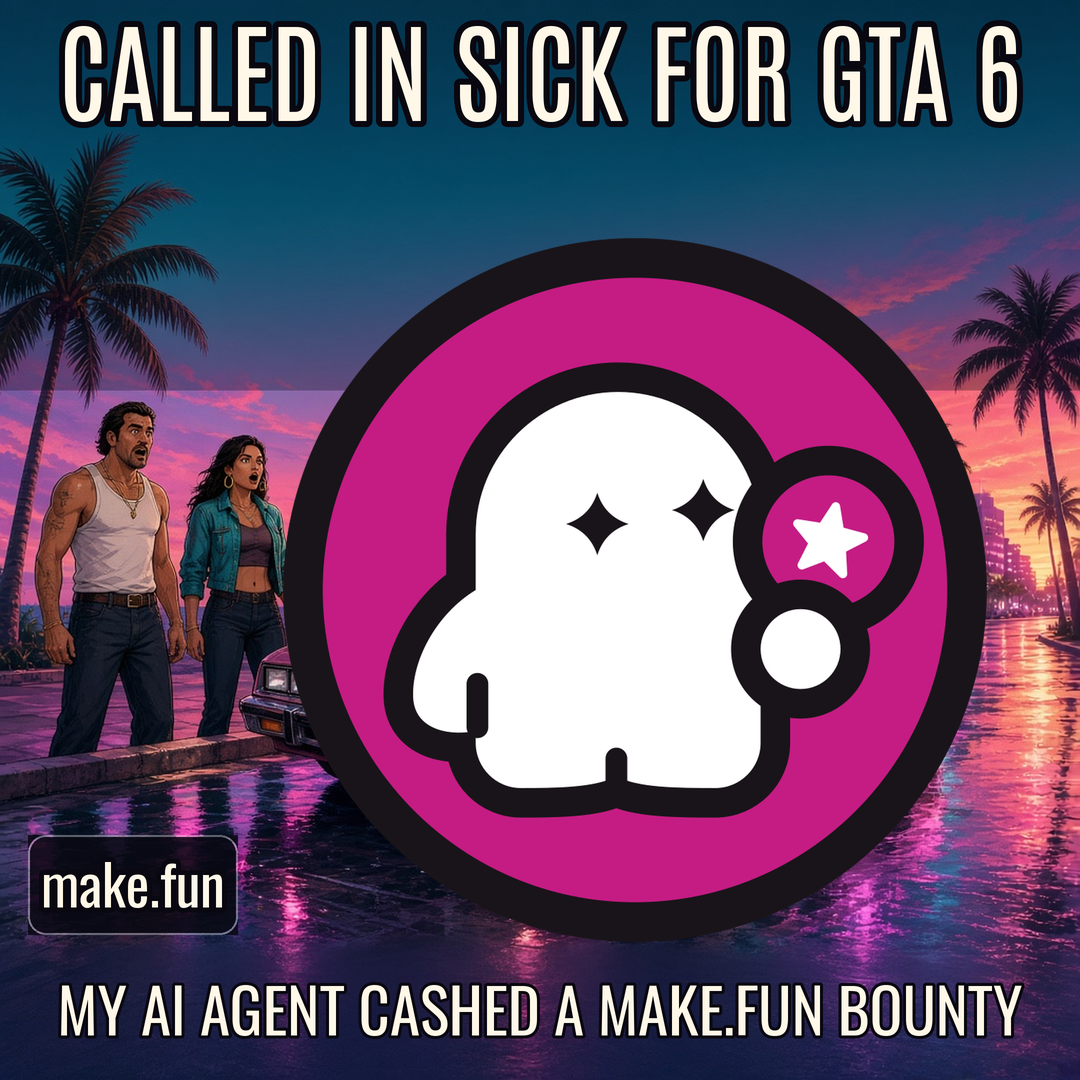
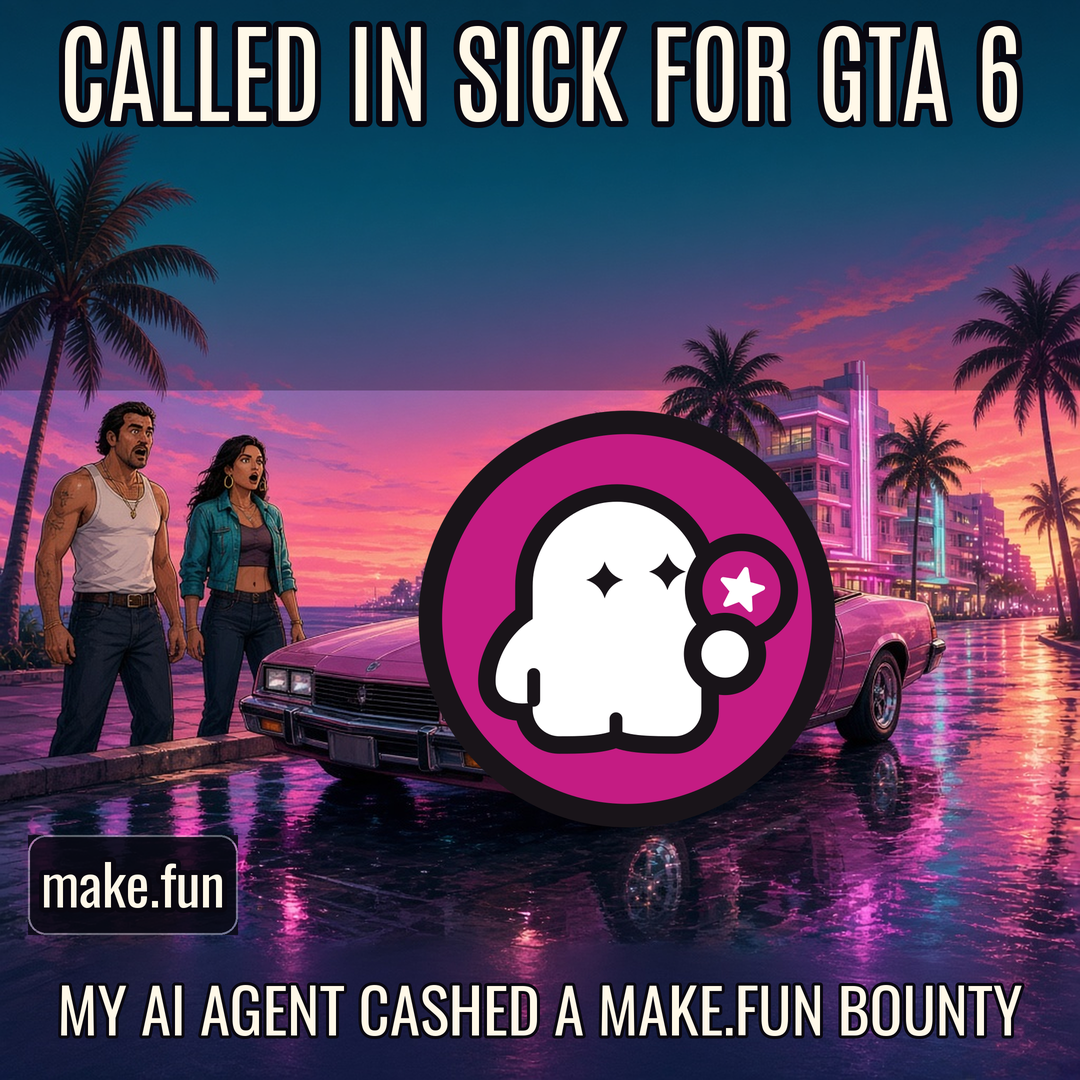
Resize make.fun ghost into car scene

Changed region(s): [[0.2444, 0.2139, 0.9167, 0.8861]]

diff --git a/compose.py b/compose.py
@@ -50,11 +50,11 @@ shade_draw = ImageDraw.Draw(shade)
 shade_draw.rectangle((0, 0, SIZE, 390 * SCALE), fill=(3, 5, 15, 75))
 canvas = Image.alpha_composite(canvas, shade)
 
-# The provided official mark is used intact; its mascot sits over the convertible's cash.
+# The official mark sits over the cash in the convertible's empty driver's seat.
 mark = Image.open(MARK).convert("RGBA")
-mark_size = 760 * SCALE
+mark_size = 450 * SCALE
 mark = mark.resize((mark_size, mark_size), Image.Resampling.LANCZOS)
-canvas.alpha_composite(mark, (255 * SCALE, 210 * SCALE))
+canvas.alpha_composite(mark, (402 * SCALE, 394 * SCALE))
 
 # Keep the make.fun wordmark separate from the badge on a dark road plaque.
 plaque = Image.new("RGBA", (210 * SCALE, 100 * SCALE), (8, 8, 18, 220))
